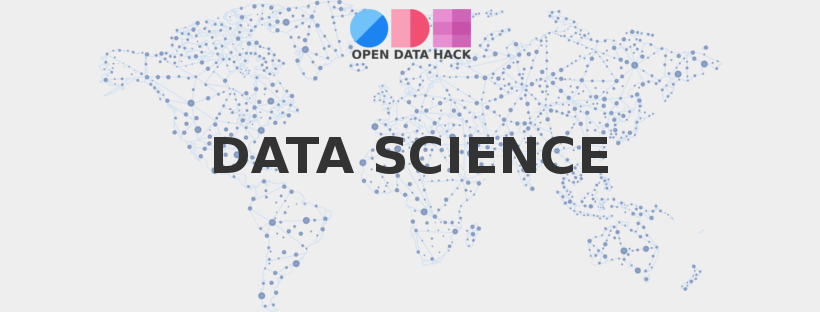
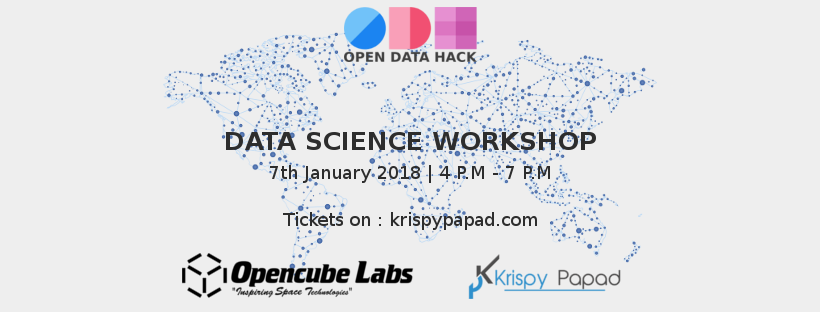
new events added

diff --git a/templates/index.html b/templates/index.html
@@ -142,10 +142,22 @@
 
           <div class="col-md-3 wow fadeIn" data-wow-duration="2s" style="margin-top: 15px;">
             <div class="card" style="width: 100%;">
-              <img src="img/events/odh-wrkshp.jpg" alt="Avatar" style="width:100%">
+              <img src="img/events/py.png" alt="Avatar" style="width:100%">
+              <div class="card-container">
+                <h4><b>Introduction to Python</b></h4> 
+                <p>7th Jan, 2018 | 10 A.M - 12 P.M</p>
+                <p><i class="fa fa-map-marker"></i> Bangalore</p>
+                <p>₹299 | <a href="/event/python-learn-up"  target="_blank" style="text-decoration: none; color: #fff;"><button class="card-1" style="border: none; background-color: #2e90cc; padding-left: 15px; padding-right: 15px; padding-top: 5px; padding-bottom: 5px;">Know more</button></a></p> 
+              </div>
+            </div>
+          </div>
+
+          <div class="col-md-3 wow fadeIn" data-wow-duration="2s" style="margin-top: 15px;">
+            <div class="card" style="width: 100%;">
+              <img src="img/events/odh.png" alt="Avatar" style="width:100%">
               <div class="card-container">
                 <h4><b>Data Science Workshop</b></h4> 
-                <p>24th Dec, 2017 | 10 A.M - 1 P.M</p>
+                <p>7th Jan, 2018 | 04 P.M - 07 P.M</p>
                 <p><i class="fa fa-map-marker"></i> Bangalore</p>
                 <p>₹399 | <a href="/event/odh-data-science-workshop"  target="_blank" style="text-decoration: none; color: #fff;"><button class="card-1" style="border: none; background-color: #2e90cc; padding-left: 15px; padding-right: 15px; padding-top: 5px; padding-bottom: 5px;">Know more</button></a></p> 
               </div>
@@ -154,24 +166,12 @@
 
           <div class="col-md-3 wow fadeIn" data-wow-duration="2s" style="margin-top: 15px;">
             <div class="card" style="width: 100%;">
-              <img src="img/events/sserd.jpg" alt="Avatar" style="width:100%">
-              <div class="card-container">
-                <h4><b>SSERD Astro Space Camp</b></h4> 
-                <p>27th - 31st Dec, 2017 </p>
-                <p><i class="fa fa-map-marker"></i> Bangalore</p>
-                <p>₹3000 onwards | <a href="/event/sserd-astro-space-camp"  target="_blank" style="text-decoration: none; color: #fff;"><button class="card-1" style="border: none; background-color: #2e90cc; padding-left: 15px; padding-right: 15px; padding-top: 5px; padding-bottom: 5px;">Know more</button></a></p> 
-              </div>
-            </div>
-          </div>
-
-          <div class="col-md-3 wow fadeIn" data-wow-duration="2s" style="margin-top: 15px;">
-            <div class="card" style="width: 100%;">
-              <img src="img/events/ml-py.jpg" alt="Avatar" style="width:100%">
+              <img src="img/events/ml-py.png" alt="Avatar" style="width:100%">
               <div class="card-container">
                 <h4><b>Machine Learning with Python</b></h4> 
-                <p>10th Dec, 2017 | 4 P.M - 7 P.M</p>
+                <p>14th Jan, 2018 | 09 A.M - 12 P.M</p>
                 <p><i class="fa fa-map-marker"></i> Bangalore</p>
-                <p>₹299 | <a href="/event/ocl-ml-with-python"  target="_blank" style="text-decoration: none; color: #fff;"><button class="card-1" style="border: none; background-color: #2e90cc; padding-left: 15px; padding-right: 15px; padding-top: 5px; padding-bottom: 5px;">Know more</button></a></p> 
+                <p>₹399 | <a href="/event/ocl-ml-with-python"  target="_blank" style="text-decoration: none; color: #fff;"><button class="card-1" style="border: none; background-color: #2e90cc; padding-left: 15px; padding-right: 15px; padding-top: 5px; padding-bottom: 5px;">Know more</button></a></p> 
               </div>
             </div>
           </div>
@@ -200,7 +200,7 @@
             </div>
           </div> -->
 
-          <div class="col-md-3 wow fadeIn" data-wow-duration="2s" style="margin-top: 15px;">
+          <!-- <div class="col-md-3 wow fadeIn" data-wow-duration="2s" style="margin-top: 15px;">
             <div class="card" style="width: 100%;">
               <img src="img/events/odh.png" alt="Avatar" style="width:100%">
               <div class="card-container">
@@ -210,7 +210,7 @@
                 <p>₹199 | <a href="/event/odh-data-science"  target="_blank" style="text-decoration: none; color: #fff;"><button class="card-1" style="border: none; background-color: #2e90cc; padding-left: 15px; padding-right: 15px; padding-top: 5px; padding-bottom: 5px;">Know more</button></a></p> 
               </div>
             </div>
-          </div>
+          </div> -->
 
           
 
@@ -226,18 +226,7 @@
               </div>
             </div>
           </div>
-        
-          <div class="col-md-3 wow fadeIn" data-wow-duration="2s" style="margin-top: 15px;">
-            <div class="card" style="width: 100%;">
-              <img src="img/events/py.png" alt="Avatar" style="width:100%">
-              <div class="card-container">
-                <h4><b>Introduction to Python Programming</b></h4> 
-                <p>12th Nov, 2017 | 2 P.M - 4 P.M</p>
-                <p><i class="fa fa-map-marker"></i> Bangalore</p>
-                <p>Free | <a href="/event/python-learn-up"  target="_blank" style="text-decoration: none; color: #fff;"><button class="card-1" style="border: none; background-color: #2e90cc; padding-left: 15px; padding-right: 15px; padding-top: 5px; padding-bottom: 5px;">Know more</button></a></p> 
-              </div>
-            </div>
-          </div>
+  
 
           <div class="col-md-3 wow fadeIn" data-wow-duration="2s" style="margin-top: 15px;">
             <div class="card" style="width: 100%;">

diff --git a/templates/python-learn-up.html b/templates/python-learn-up.html
@@ -70,11 +70,11 @@
               <div class="card" style="width: 100%;">
                 <div class="card-container" style="border-color: red; border-top: 15px;">
                   <h4><b>Introduction to Python Programming</b></h4>
-                  <h4>12th Nov, 2017 | 2 P.M - 4 P.M</h4>
+                  <h4>7th Jan, 2018 | 10 A.M - 12 P.M</h4>
                   <h4><b>Venue :</b> Opencube Labs, Bangalore-24</h4>
-                  <h4><b>Price : </b>Free</h4>
+                  <h4><b>Price : </b>₹299</h4>
                   <h4><b>Organiser</b></h4>
-                  <h4>Krispy Papad, info@krispypapad.com</h4>
+                  <h4>Opencube Labs, hello@ocl.space, +91-8553236639</h4>
                 </div>
               </div>
           </div>
@@ -112,7 +112,7 @@
                         <div class="col-md-4 text-center">
                           <img src="../img/speakers/suraj.png" style="width: 100px;">
                           <h4>Suraj Jana</h4>
-                          <p>Founder, Krispy Papad</p>
+                          <p>Founder, Opencube Labs</p>
                           <a href="//in.linkedin.com/in/surajjana" target="_blank">LinkedIn Profile</a>
                         </div>
                         <div class="col-md-4">
@@ -121,10 +121,7 @@
 
                     <h4><b>Recognition</b></h4>
 
-                    <p>Show your skills learnt from this learn-up by earning a verifiable digital badge by sertify.me <sup>*</sup></p>
-
-                    <p><sup>*</sup> Per digital badge price is $1</p>
-                    
+                    <p>Show your skills learnt from this learn-up by earning a verifiable digital badge.</p>                    
                     
 
                     <!-- <div class="row">
@@ -143,9 +140,10 @@
             <div class="col-lg-4 col-md-4 col-sm-12 col-xs-12" style="margin-top: 15px;">
                 <div class="card" style="width: 100%;">
                   <div class="card-container" style="padding: 20px;">
-                    <h4>Registrations closed</h4>
-                    <!-- <form action="/reg/free" method="post">
+                    <!-- <h4>Registrations closed</h4> -->
+                    <form action="/reg/free" method="post">
                       <input type="hidden" name="event_id" value="Introduction to Python Programming">
+                      <input type="hidden" name="amount" value="299">
                       <div class="form-group">
                         <label for="usr">Name:</label>
                         <input type="text" class="form-control" name="name" placeholder="Name" required>
@@ -158,9 +156,12 @@
                         <label for="usr">Mobile No.:</label>
                         <input type="text" class="form-control" name="mobile" placeholder="+91-9876543210" required>
                       </div>
+                      <div class="form-group">
+                        <label for="usr">Ticket amount : ₹299</label>
+                      </div>
                       <input type="submit" class="form-control card-1" value="Register Now" style="border: none; background-color: #2e90cc; color: #fff; border-radius: 0px;">
 
-                    </form> -->
+                    </form>
                   </div>
                 </div>
             </div>

diff --git a/templates/ocl-ml-with-python.html b/templates/ocl-ml-with-python.html
@@ -61,7 +61,7 @@
           <div class="col-lg-8 col-md-8 col-sm-12 col-xs-12" style="margin-top: 15px;">
             <div class="card" style="width: 100%;">
               <div class="">
-                <img class="" src="../img/events/ml-py.jpg" style="width: 100%; height: 312px;">
+                <img class="" src="../img/events/ml-py.png" style="width: 100%; height: 312px;">
               </div>
             </div>
           </div>
@@ -70,11 +70,11 @@
               <div class="card" style="width: 100%;">
                 <div class="card-container" style="border-color: red; border-top: 15px;">
                   <h4><b>Machine Learning with Python</b></h4>
-                  <h4>10th Dec, 2017 | 4 P.M - 7 P.M</h4>
+                  <h4>14th Dec, 2017 | 09 A.M - 12 P.M</h4>
                   <h4><b>Venue :</b> Opencube Labs, Bangalore-24</h4>
-                  <h4><b>Price : </b><strike>₹599</strike> ₹299 onwards <span style="color: green;">(At 50% discount)</span></h4>
+                  <h4><b>Price : </b>₹399</h4>
                   <h4><b>Organiser</b></h4>
-                  <h4>Opencube Labs, hello@ocl.space</h4>
+                  <h4>Opencube Labs, hello@ocl.space, +91-8553236639</h4>
                 </div>
               </div>
           </div>
@@ -130,11 +130,11 @@
             <div class="col-lg-4 col-md-4 col-sm-12 col-xs-12" style="margin-top: 15px;">
                 <div class="card" style="width: 100%;">
                   <div class="card-container" style="padding: 25px 25px 25px 25px;">
-                    <h4 style="">Registration closed</h4>
-                    <<!-- p>Original price : ₹599</p>
+                    <!-- <h4 style="">Registration closed</h4> -->
+                    
                     <form action="/api/pay/kp" method="post">
                       <input type="hidden" name="event_id" value="Machine Learning with Python">
-                      <input type="hidden" name="amount" value="299">
+                      <input type="hidden" name="amount" value="399">
                       <div class="form-group">
                         <label for="usr">Name:</label>
                         <input type="text" class="form-control" name="name" placeholder="Name" required>
@@ -148,11 +148,11 @@
                         <input type="text" class="form-control" name="mobile" placeholder="+91-9876543210" required>
                       </div>
                       <div class="form-group">
-                        <label for="usr">Ticket amount : ₹299 (After discount)</label>
+                        <label for="usr">Ticket amount : ₹399</label>
                       </div>
                       <input type="submit" class="form-control card-1" value="Register Now" style="border: none; background-color: #2e90cc; color: #fff; border-radius: 0px;">
 
-                    </form> -->
+                    </form>
                   </div>
                 </div>
             </div>

diff --git a/templates/odh-data-science-workshop.html b/templates/odh-data-science-workshop.html
@@ -61,7 +61,7 @@
           <div class="col-lg-8 col-md-8 col-sm-12 col-xs-12" style="margin-top: 15px;">
             <div class="card" style="width: 100%;">
               <div class="">
-                <img class="" src="../img/events/odh-wrkshp.jpg" style="width: 100%; height: 312px;">
+                <img class="" src="../img/events/odh.png" style="width: 100%; height: 312px;">
               </div>
             </div>
           </div>
@@ -70,11 +70,11 @@
               <div class="card" style="width: 100%;">
                 <div class="card-container" style="border-color: red; border-top: 15px;">
                   <h4><b>Data Science Workshop</b></h4>
-                  <h4>24th Nov, 2017 | 10 A.M - 1 P.M</h4>
+                  <h4>7th Jan, 2018 | 04 P.M - 07 P.M</h4>
                   <h4><b>Venue :</b> Opencube Labs, Bangalore-24</h4>
                   <h4><b>Price : </b> ₹399</h4>
                   <h4><b>Organiser</b></h4>
-                  <h4>Open Data Hack India, hi@opendatahack.org</h4>
+                  <h4>Open Data Hack India, hi@opendatahack.org, +91-8553236639</h4>
                 </div>
               </div>
           </div>
